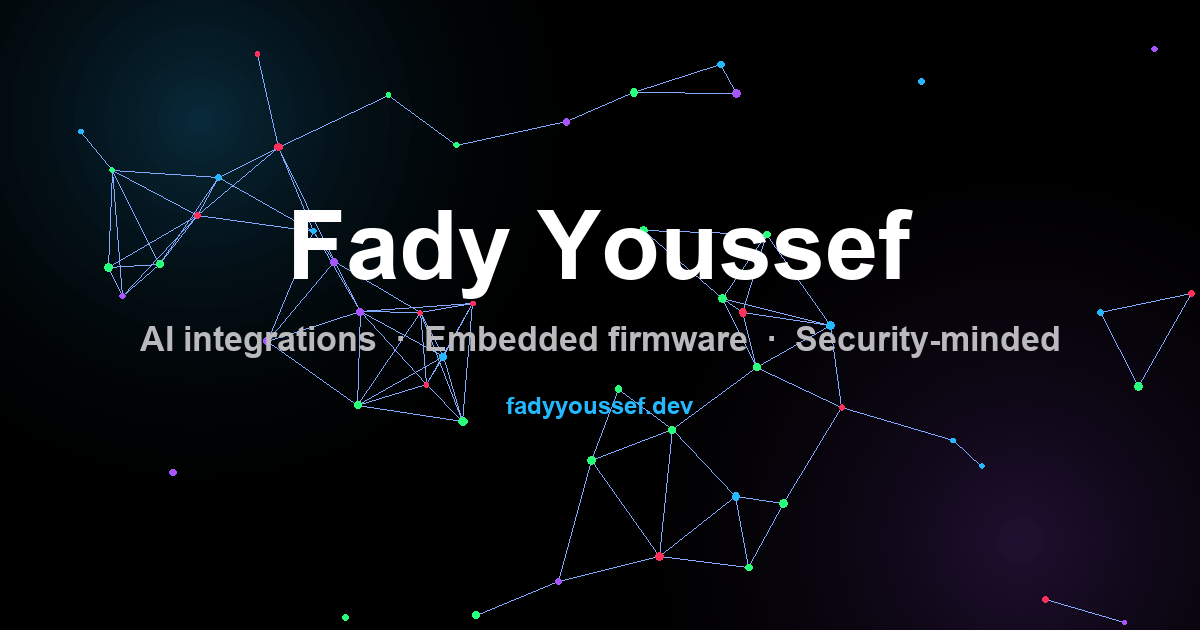
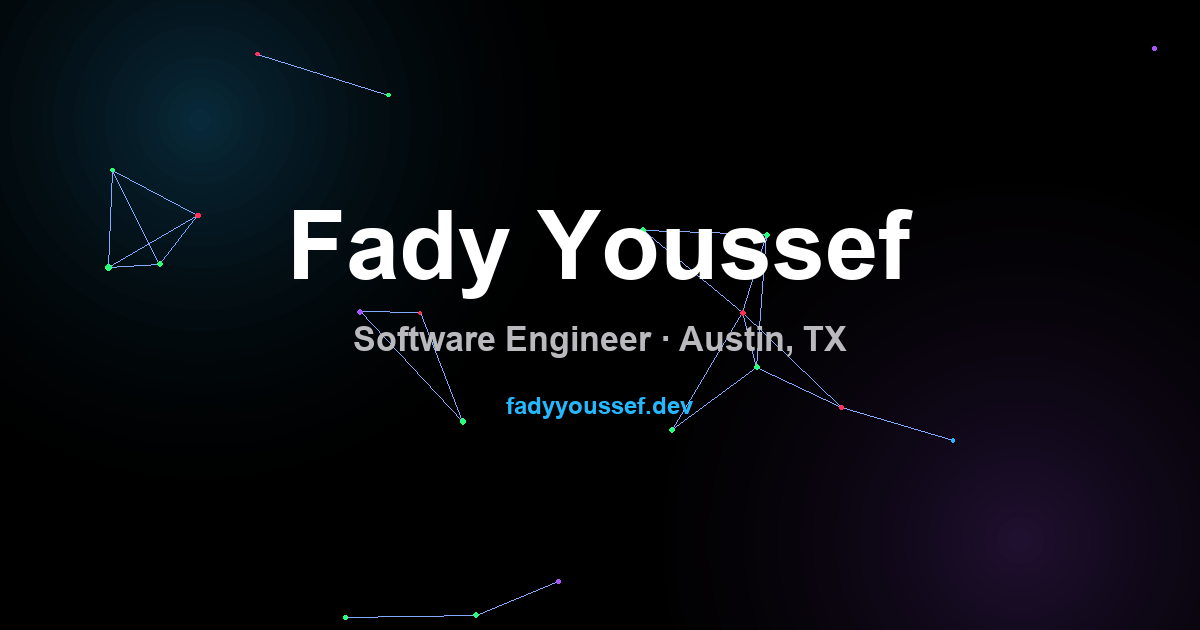
Link preview: calmer share image, one-line description

diff --git a/index.html b/index.html
@@ -6,19 +6,19 @@
     <meta name="color-scheme" content="dark" />
     <meta name="theme-color" content="#000000" />
     <title>Fady Youssef — Software Engineer</title>
-    <meta name="description" content="Fady Youssef — software engineer in Austin, TX. AI integrations (agents, MCP servers, LLM features), embedded firmware on STM32/ESP32, and security-minded tools. Selected open-source work." />
+    <meta name="description" content="Fady Youssef — software engineer in Austin, TX." />
     <link rel="canonical" href="https://fadyyoussef.dev/" />
     <meta property="og:type" content="website" />
     <meta property="og:url" content="https://fadyyoussef.dev/" />
     <meta property="og:title" content="Fady Youssef — Software Engineer" />
-    <meta property="og:description" content="Software engineer in Austin, TX: AI integrations (agents, MCP servers, LLM features), embedded firmware, and security-minded tools." />
+    <meta property="og:description" content="Software engineer in Austin, TX." />
     <meta property="og:image" content="https://fadyyoussef.dev/og.png" />
     <meta property="og:image:width" content="1200" />
     <meta property="og:image:height" content="630" />
     <meta name="twitter:card" content="summary_large_image" />
     <meta name="twitter:image" content="https://fadyyoussef.dev/og.png" />
     <meta name="twitter:title" content="Fady Youssef — Software Engineer" />
-    <meta name="twitter:description" content="AI integrations, embedded firmware, and security-minded tools. Selected open-source work." />
+    <meta name="twitter:description" content="Software engineer in Austin, TX." />
     <link rel="icon" type="image/svg+xml" href="/favicon.svg" />
     <link rel="preconnect" href="https://fonts.googleapis.com" />
     <link rel="preconnect" href="https://fonts.gstatic.com" crossorigin />
